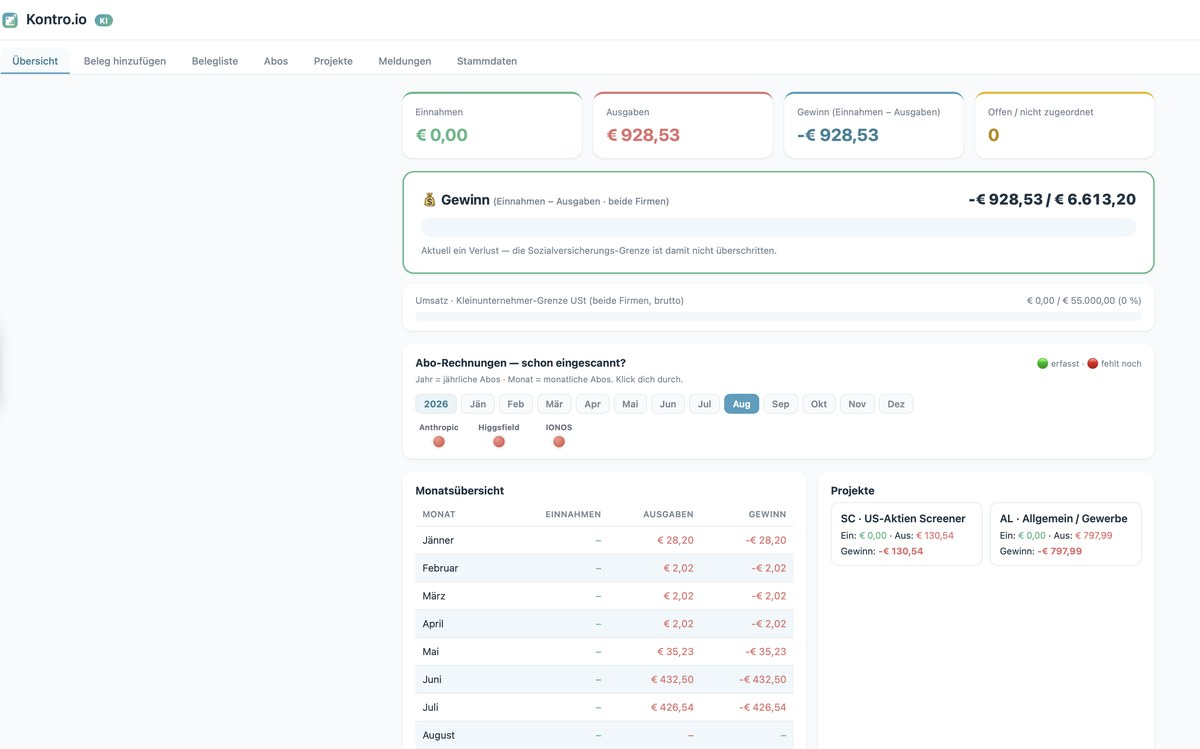
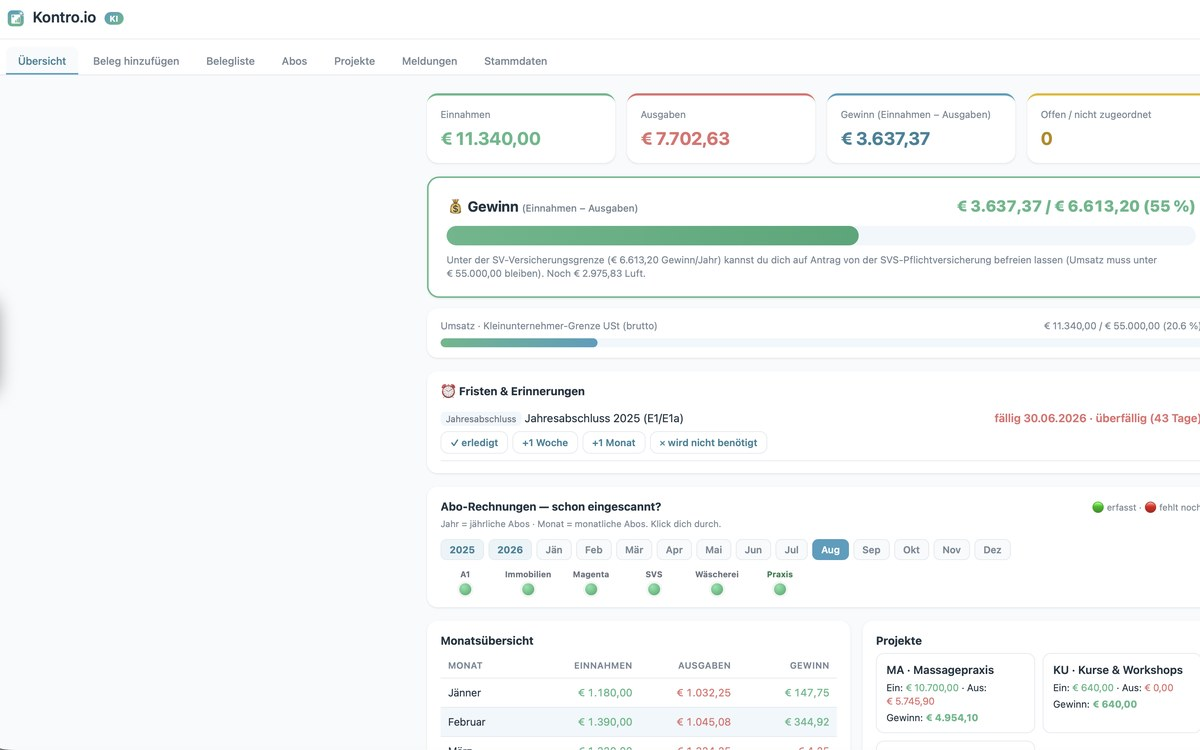
Kontro.io: Screenshot der Demo-Fassung statt der echten Daten
Robert hat eine neue Aufnahme geliefert. Zwei Gründe, warum sie besser ist:

1. INHALT: Die Demo zeigt echte Zahlen, einen gefüllten Gewinn-Balken
   (55 % der SV-Grenze), den Abschnitt "Fristen & Erinnerungen" und
   Projekte mit Beträgen. Die bisherige Aufnahme zeigte fast nur Nullen
   und einen leeren Balken — man sah nicht, was das Programm kann.

2. DATENSCHUTZ, wichtiger: Die bisher öffentlich sichtbare Fassung zeigte
   Roberts ECHTE Geschäftszahlen — 928,53 € Ausgaben, "Aktuell ein
   Verlust", dazu die Projekte "SC · US-Aktien Screener" und "AL ·
   Allgemein / Gewerbe" mit Beträgen. Das stand auf einer öffentlichen
   Website. Die neue Aufnahme stammt aus der DEMO-Version mit erfundenen
   Daten (Massagepraxis, Kurse & Workshops).

Zuschnitt wie bisher links ausgerichtet, damit Logo und Navigation ganz
bleiben. Bildbeschreibung an den neuen Inhalt angepasst.

diff --git a/js/script.js b/js/script.js
@@ -61,7 +61,8 @@ const PROGRAMME = [
     status: 'einsatzbereit',
     link: null,
     bild: 'kontro-io.jpg',
-    alt: 'Kontro.io: Jahresübersicht mit Einnahmen, Ausgaben, Gewinn-Balken und Monatstabelle',
+    alt: 'Kontro.io: Jahresübersicht mit Einnahmen, Ausgaben und Gewinn, Balken zur '
+       + 'Sozialversicherungs-Grenze, Fristen-Erinnerungen und Monatstabelle',
     form: 'quer',
     hell: true,
     hinweis: 'Werkzeug zur Aufbereitung — keine Steuerberatung.',

diff --git a/_tools/screenshots-aufbereiten.py b/_tools/screenshots-aufbereiten.py
@@ -56,8 +56,10 @@ QUALITAET = 88             # JPEG-Qualitaet: 88 ist scharf und trotzdem klein
 # ---------------------------------------------------------------------------
 BILDER = [
     dict(ziel="kontro-io.jpg",
-         # helle Fassung (11.08.2026) - wirkt fuer ein Buchhaltungsprogramm serioeser
-         quelle="Bildschirmfoto 2026-08-11 um 22.03.27.png",
+         # DEMO-Fassung (12.08.2026) - zeigt echte Zahlen, gefuellten Gewinn-Balken,
+         # Fristen und Projekte statt lauter Nullen. Und: es sind erfundene
+         # Demo-Daten, nicht Roberts echte Geschaeftszahlen.
+         quelle="Bildschirmfoto 2026-08-12 um 22.30.23.png",
          # links ausrichten, damit Logo und Navigation erhalten bleiben
          art="quer", vorschnitt=None, anker="links"),
 
